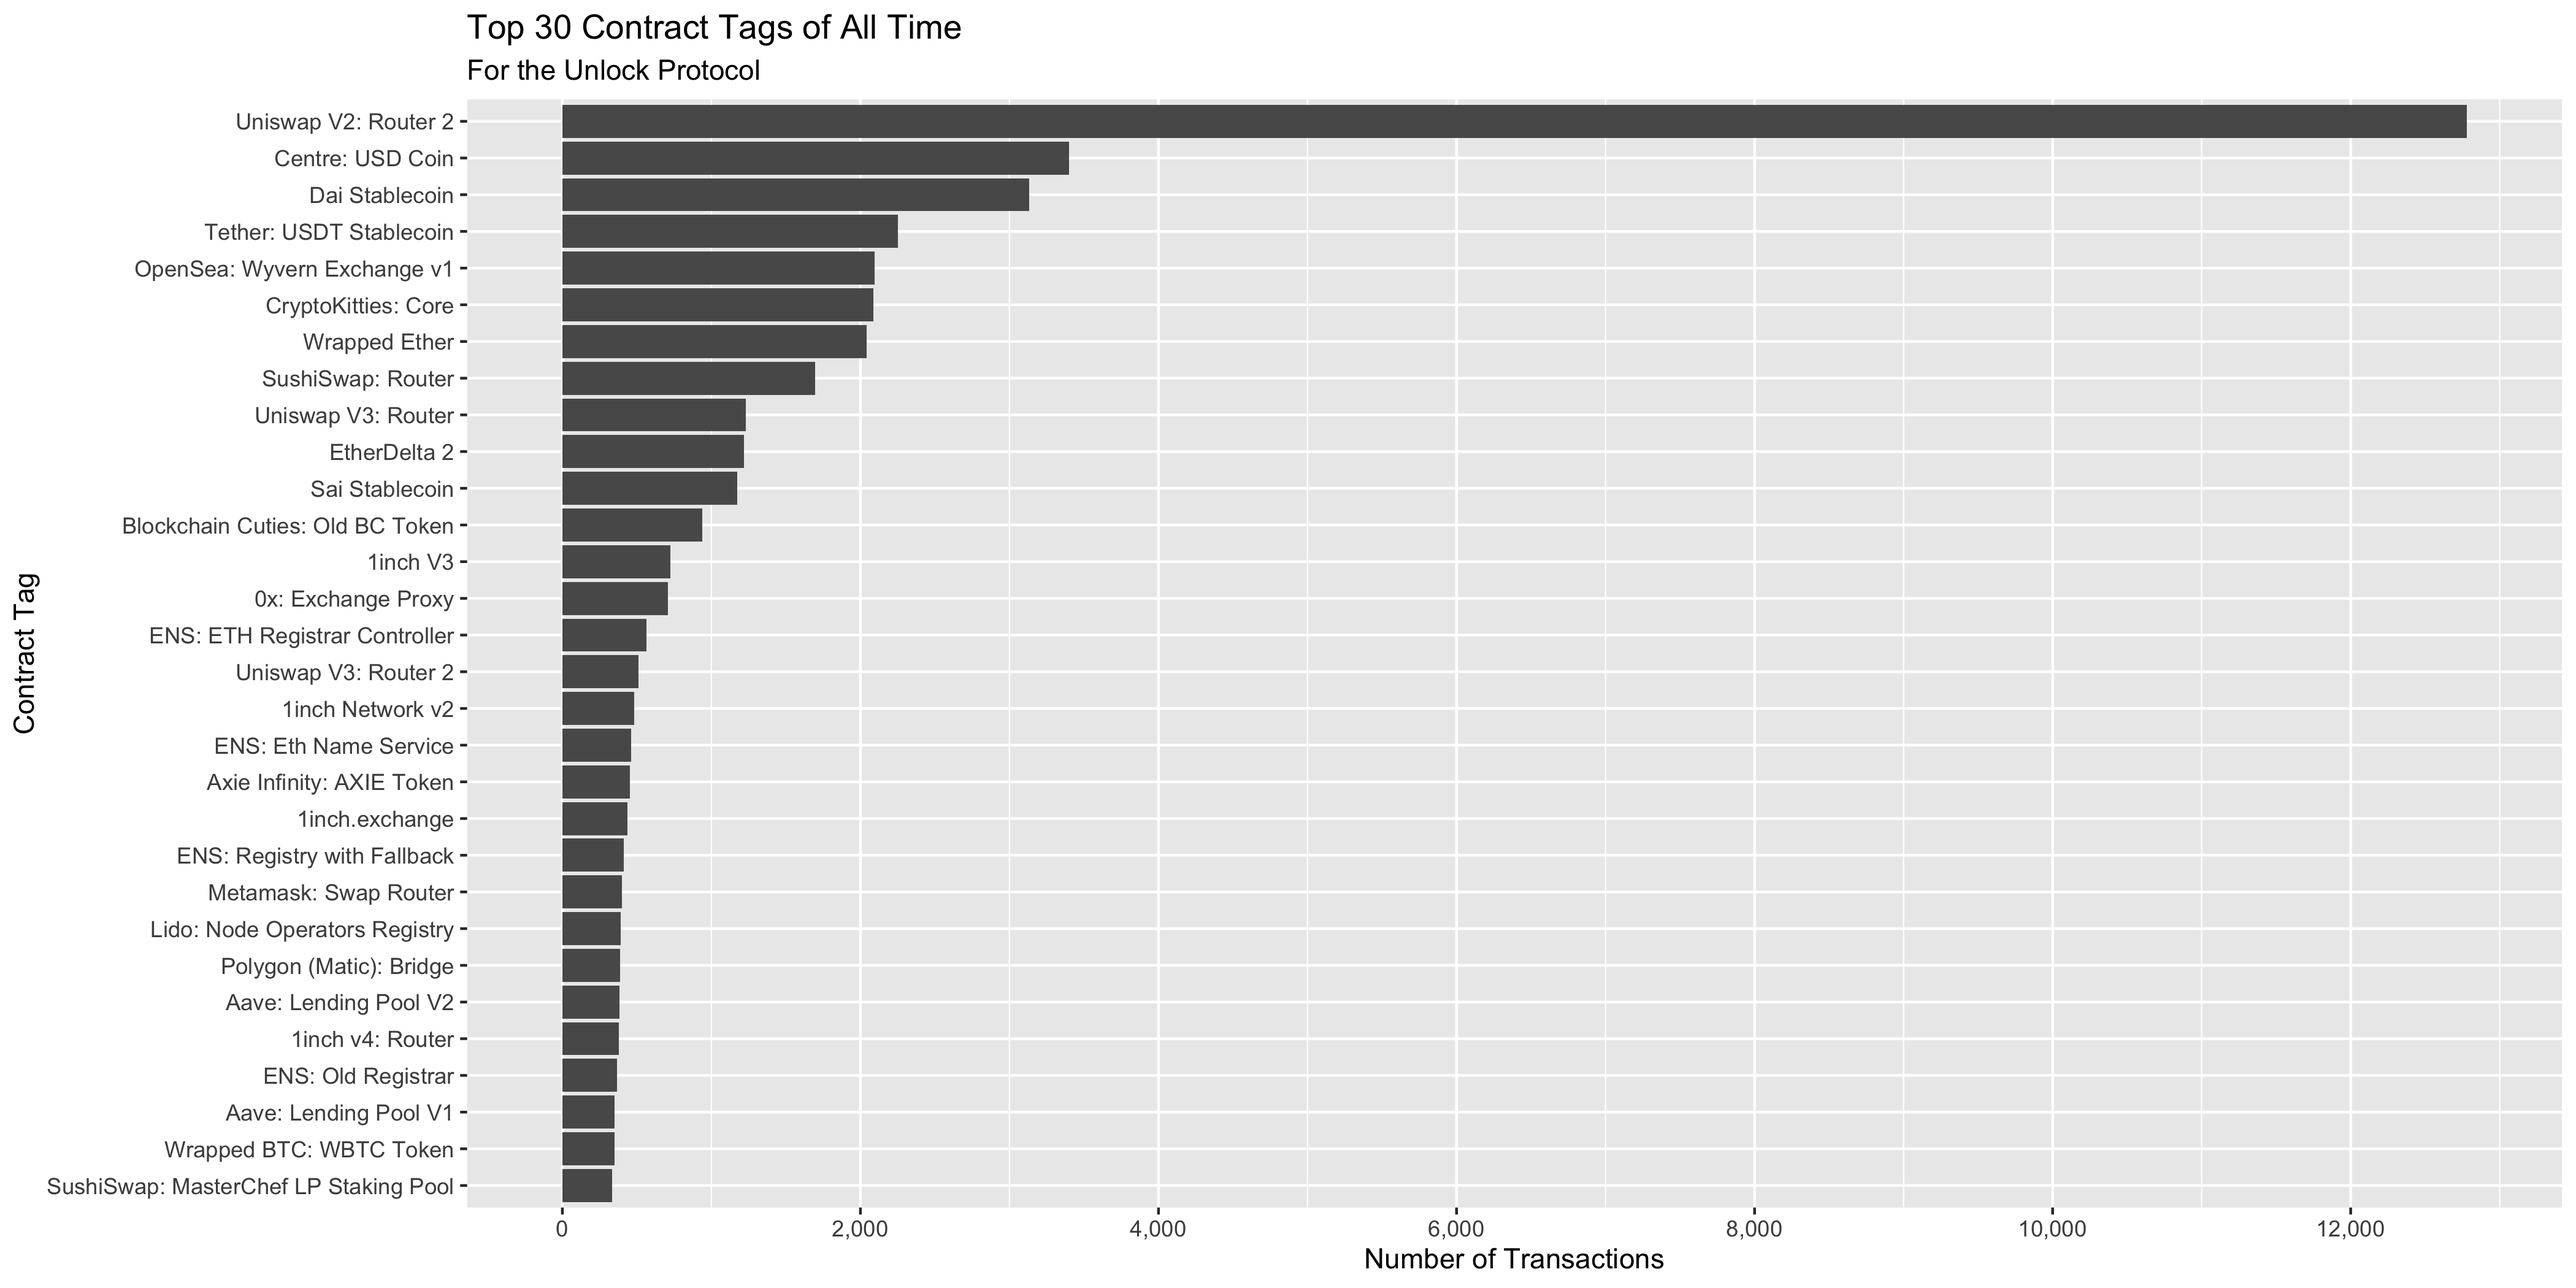
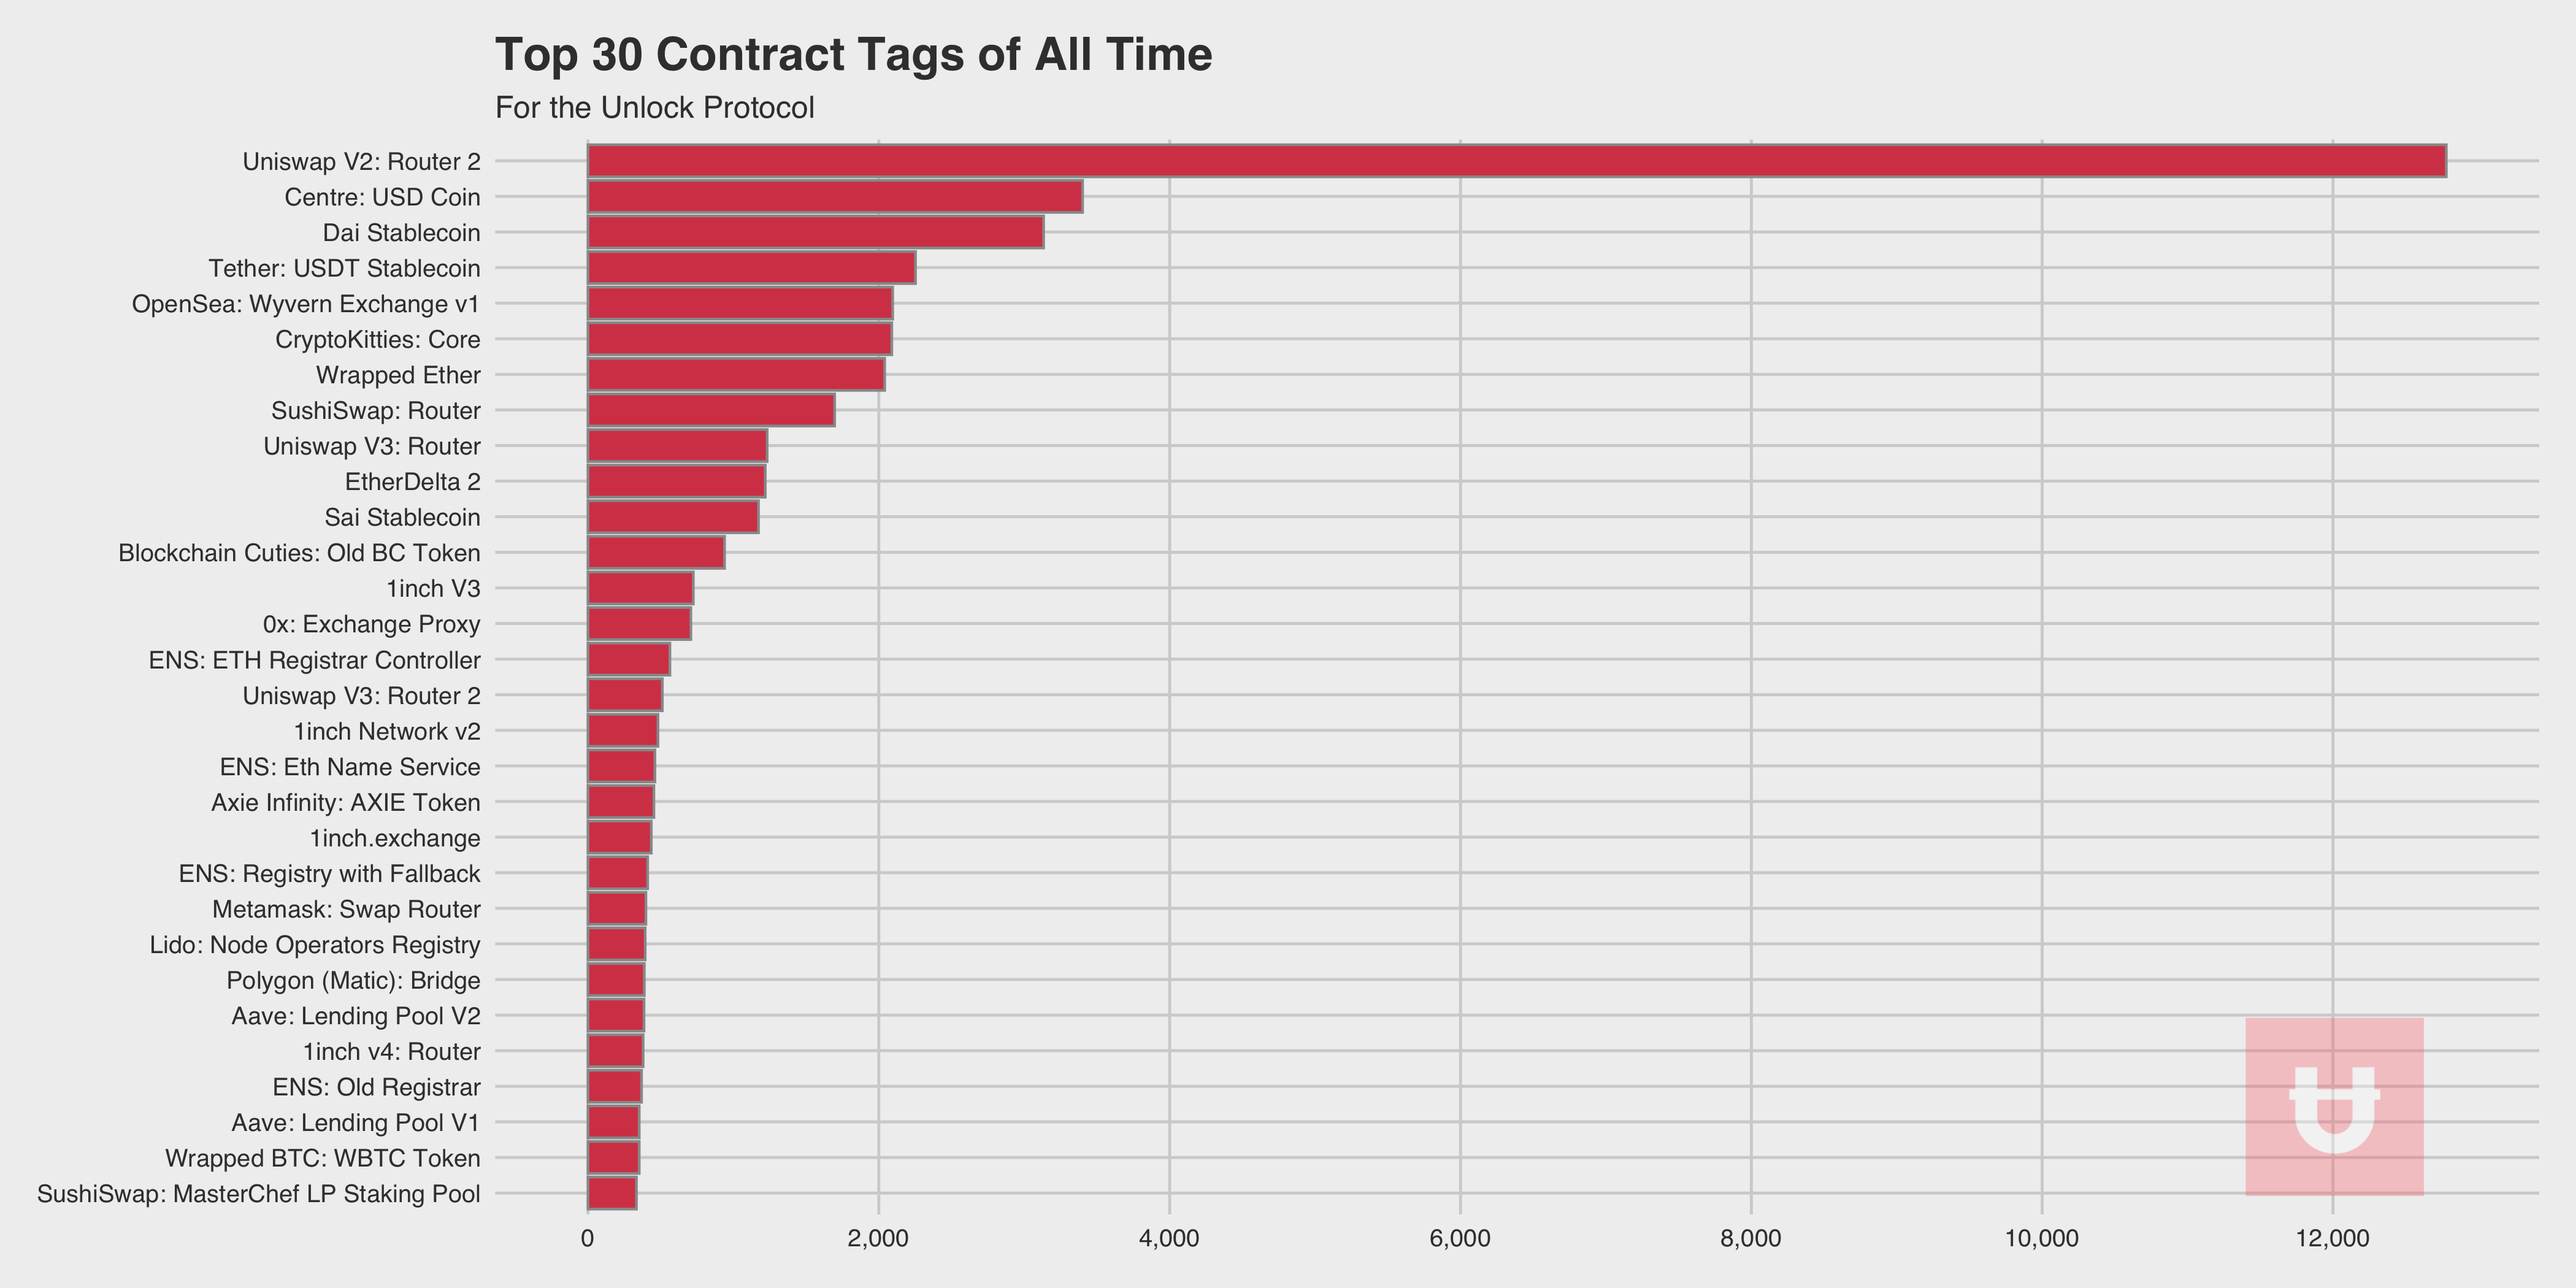
Update unlock protocol case study

diff --git a/case-studies/unlock-protocol/unlock.html b/case-studies/unlock-protocol/unlock.html
@@ -31,7 +31,8 @@ The Unlock Protocol is an attempt to bring Content Monetinization to the Web3 ec
 
 Unlike traditional paywall models, this is entirely decentralized and open source!
 
-![](unlock.png)
+&lt;br&gt;&lt;br&gt;
+&lt;div style='text-align: center'&gt;&lt;img src='unlock.png'&gt;&lt;/div&gt;
 
 ---
 
@@ -57,7 +58,12 @@ Ultimately, the data is people who have interacted with the Unlock contract and 
 
 ## Goals
 
-We have scraped data directly from the chain in order to analyze some properties in the usage and growth of the unlock protocol.
+Using the scraped data, we wish to do some of the following:
+
+- Clean and process the data to make it suitable for analysis, as needed
+- Analyze both the aggregate and the over-time growth metrics of the Unlock Protocol
+- Get a feel for the number of unique contracts and wallets interacting with the protocol
+- Say something about the top tags names, and token trackers.
 
 Let's get started!
 
@@ -65,7 +71,7 @@ Let's get started!
 
 ## The Data
 
-First, let's begin by loading in our data and taking a first peak:
+First, let's begin by loading in our data and taking a first peak. Note that for verbosity, we are removing a few contract columns when displaying here.
 
 
 ```r
@@ -160,38 +166,6 @@ We see that the data covers the time period between December 2015 and May 2022.
 
 ---
 
-## Transactions Over Time
-
-How has the number of transactions per month changed as a function of time?
-
-
-```r
-p1 &lt;- unlock %&gt;%
-    mutate(Date = as_date(Time)) %&gt;%
-    mutate(Date = ymd(paste(year(Date), month(Date), "01", sep = "-"))) %&gt;%
-    group_by(Date) %&gt;%
-    summarise(Count = n()) %&gt;%
-    mutate(CumeCount = cumsum(Count)) %&gt;%
-    ggplot(aes(Date, CumeCount)) +
-        geom_line() +
-        geom_bar(stat = "identity", aes(y = Count)) +
-        scale_x_date(date_breaks = "3 months", date_labels = "%b %y") +
-        scale_y_continuous(labels = scales::comma, breaks = scales::pretty_breaks(n = 10)) +
-        labs(
-            title = "Cumulative Number of Transactions over Time",
-            subtitle = "For the Unlock Protocol",
-            y = "Transactions",
-            x = "Date"
-        )
-```
-
----
-
-We see a steady growth that accelerated in 2020, including a particularly large spike in December 2021.
-
-&lt;img src="unlock_files/figure-html/unnamed-chunk-5-1.png" style="display: block; margin: auto;" /&gt;
-
----
 
 ## Some Quick Statistics
 
@@ -230,7 +204,43 @@ length(unique(unlock$Contract))
 
 ---
 
+## Transactions Over Time
+
+How has the number of transactions per month changed as a function of time?
+
+
+```r
+p1 &lt;- unlock %&gt;%
+    mutate(Date = as_date(Time)) %&gt;%
+    mutate(Date = ymd(paste(year(Date), month(Date), "01", sep = "-"))) %&gt;%
+    group_by(Date) %&gt;%
+    summarise(Count = n()) %&gt;%
+    mutate(CumeCount = cumsum(Count)) %&gt;%
+    ggplot(aes(Date, CumeCount)) +
+        geom_line(colour = "#D64555", size = 1.25) +
+        geom_bar(stat = "identity", aes(y = Count), fill = "#D64555", colour = "grey60") +
+        scale_x_date(date_breaks = "3 months", date_labels = "%b %y") +
+        scale_y_continuous(labels = scales::comma, breaks = scales::pretty_breaks(n = 10)) +
+        watermark_img("unlock.png", width = 70, location = "tl", alpha = 0.3) +
+        labs(
+            title = "Cumulative Number of Transactions over Time",
+            subtitle = "For the Unlock Protocol",
+            y = "Transactions",
+            x = "Date"
+        )
+```
+
+---
+
+We see a steady growth that accelerated in 2020, including a particularly large spike in December 2021.
+
+&lt;img src="unlock_files/figure-html/unnamed-chunk-8-1.png" style="display: block; margin: auto;" /&gt;
+
+---
+
 ## Top Contract Tags
+
+Now let's compute the top contract tags:
 
 
 ```r
@@ -242,8 +252,9 @@ p2 &lt;- unlock %&gt;%
     slice(1:30) %&gt;%
     mutate(ContractTag = factor(ContractTag, levels = rev(ContractTag))) %&gt;%
     ggplot(aes(x = Count, y = ContractTag)) +
-        geom_bar(stat = "identity") +
+        geom_bar(stat = "identity", fill = "#D64555", colour = "grey60") +
         scale_x_continuous(labels = scales::comma, breaks = scales::pretty_breaks(n = 10)) +
+        watermark_img("unlock.png", width = 70, location = "br", alpha = 0.3) +
         labs(
             title = "Top 30 Contract Tags of All Time",
             subtitle = "For the Unlock Protocol",
@@ -254,11 +265,15 @@ p2 &lt;- unlock %&gt;%
 
 ---
 
+Towards the top of the list, we see Uniswap V2, USD Coin, and DAI, with Uniswap V2 leading the way with well over 12,000 transactions associated.
+
 &lt;img src="unlock_files/figure-html/unnamed-chunk-10-1.png" style="display: block; margin: auto;" /&gt;
 
 ---
 
 ## Top Contract Names
+
+We can use nearly the same routine to look at the top contract names:
 
 
 ```r
@@ -270,8 +285,9 @@ p3 &lt;- unlock %&gt;%
     slice(1:30) %&gt;%
     mutate(ContractName = factor(ContractName, levels = rev(ContractName))) %&gt;%
     ggplot(aes(x = Count, y = ContractName)) +
-        geom_bar(stat = "identity") +
+        geom_bar(stat = "identity", fill = "#D64555", colour = "grey60") +
         scale_x_continuous(labels = scales::comma, breaks = scales::pretty_breaks(n = 10)) +
+        watermark_img("unlock.png", width = 70, location = "br", alpha = 0.3) +
         labs(
             title = "Top 30 Contract Names of All Time",
             subtitle = "For the Unlock Protocol",
@@ -282,11 +298,15 @@ p3 &lt;- unlock %&gt;%
 
 ---
 
+The story is much the same, with Uniswap at the top, followed by InBetweeners and FiatTokenProxy.
+
 &lt;img src="unlock_files/figure-html/unnamed-chunk-12-1.png" style="display: block; margin: auto;" /&gt;
 
 ---
 
 ## Top Token Trackers
+
+Finally, we do the same analysis looking at the top token trackers:
 
 
 ```r
@@ -298,8 +318,9 @@ p4 &lt;- unlock %&gt;%
     slice(1:30) %&gt;%
     mutate(TokenTracker = factor(TokenTracker, levels = rev(TokenTracker))) %&gt;%
     ggplot(aes(x = Count, y = TokenTracker)) +
-        geom_bar(stat = "identity") +
+        geom_bar(stat = "identity", fill = "#D64555", colour = "grey60") +
         scale_x_continuous(labels = scales::comma, breaks = scales::pretty_breaks(n = 10)) +
+        watermark_img("unlock.png", width = 70, location = "br", alpha = 0.3) +
         labs(
             title = "Top 30 Token Trackers of All Time",
             subtitle = "For the Unlock Protocol",
@@ -310,7 +331,18 @@ p4 &lt;- unlock %&gt;%
 
 ---
 
+Now, InBetweeners rises to the top, and USDC + DAI round out the rest of the top three.
+
 &lt;img src="unlock_files/figure-html/unnamed-chunk-14-1.png" style="display: block; margin: auto;" /&gt;
+
+---
+
+## Conclusion
+
+We hope you enjoyed this brief look into the Unlock Protocol and analyzing data on transactions associated with it from the blockchain. Be on the lookout for many more case studies coming down the pipeline!
+
+&lt;br&gt;&lt;br&gt;
+&lt;div style='text-align: center'&gt;&lt;img src='unlock.png'&gt;&lt;/div&gt;
     </textarea>
 <style data-target="print-only">@media screen {.remark-slide-container{display:block;}.remark-slide-scaler{box-shadow:none;}}</style>
 <script src="https://remarkjs.com/downloads/remark-latest.min.js"></script>
